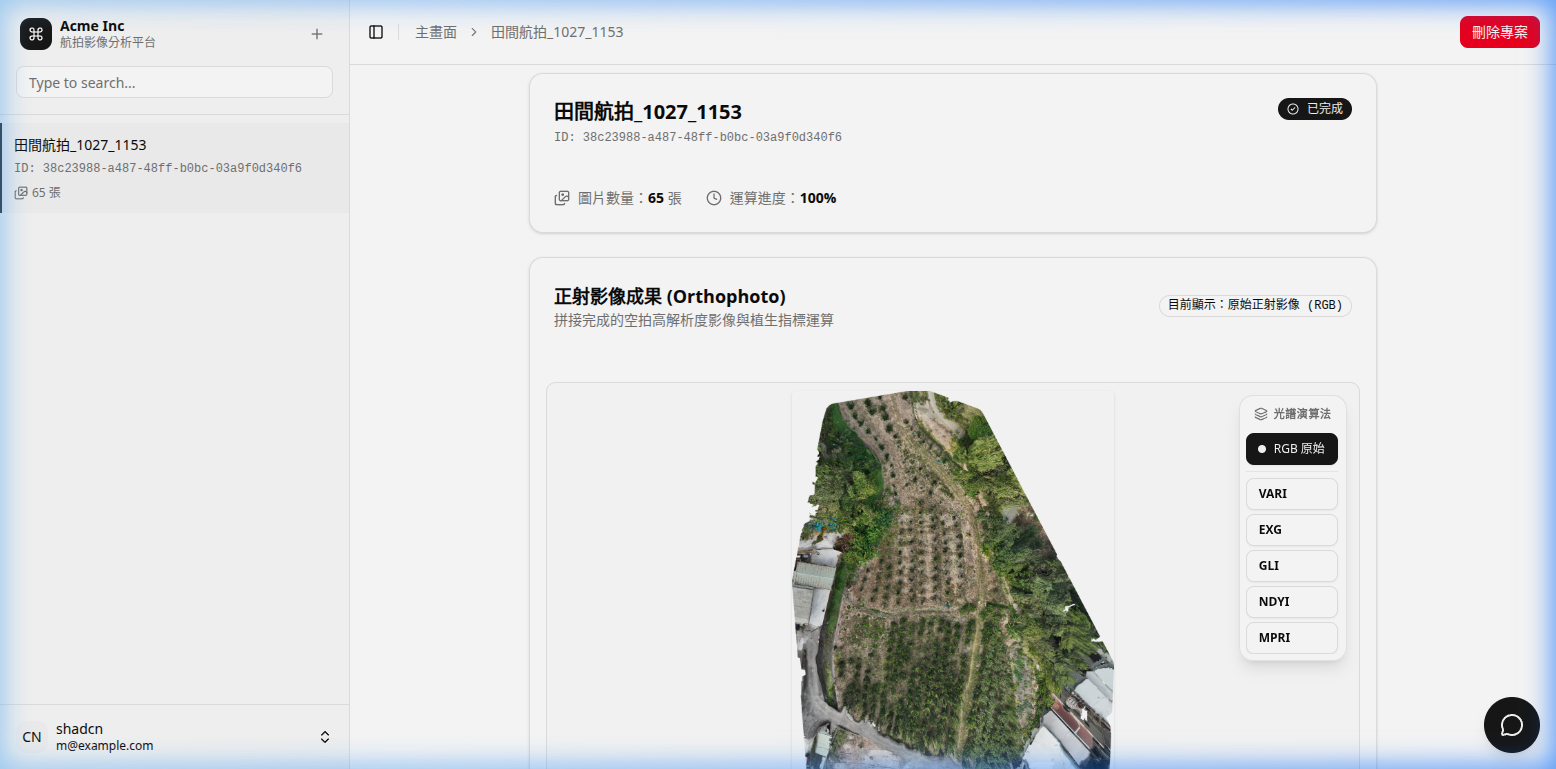
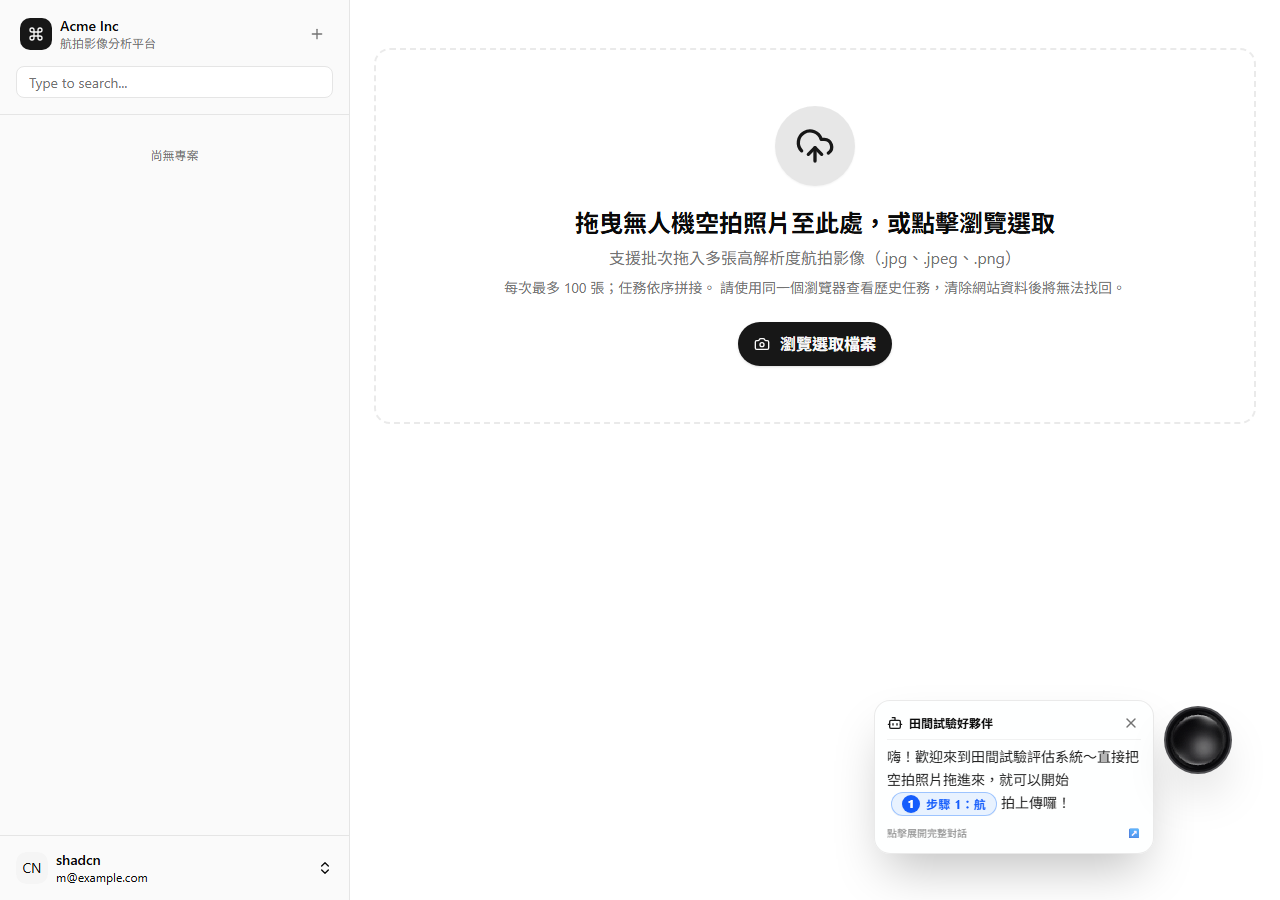
docs: redirect startup instructions to cloud deployment and update demo preview
Transition project documentation from local development setup to the live
Google Cloud production environment. With automated Caddy HTTPS and DuckDNS
deployment in place, reviewers and visitors can interact with the system
directly in their browsers without configuring local Docker stacks or
dependency toolchains.

- Update docs/assets/demo.png with the latest UI and plot annotation preview
- Add live cloud access URL (https://5114050012.duckdns.org) to README header and guide
- Replace local startup and development commands with cloud endpoint routing guide

diff --git a/README.md b/README.md
@@ -1,5 +1,7 @@
 # 田間無人機影像智慧決策
 
+> 🌐 **線上系統體驗入口**：[https://5114050012.duckdns.org](https://5114050012.duckdns.org)
+
 ![DEMO 主畫面](docs/assets/demo.png)
 
 ## 人工智慧與資訊安全期末專題提案
@@ -29,25 +31,23 @@
 
 ---
 
-## 本機整合啟動
+## 線上系統體驗
 
-需要 [Docker Engine 與 Compose](https://docs.docker.com/compose/install/)。首次設定時複製 `.env.example` 為 `.env`，填入自己的 `GEMINI_API_KEY` 與可用模型；既有 `.env` 請保留並補齊設定。
+本專案已完成自動化雲端部署並公開上線，使用者無需在本地端配置 Docker 或安裝任何環境，可直接透過瀏覽器造訪線上系統體驗完整功能：
 
-```bash
-docker compose up -d --build --wait
-```
+👉 **線上展示入口**：[https://5114050012.duckdns.org](https://5114050012.duckdns.org)
 
-開啟 <http://localhost:8000>。映像檔會使用 Node 24 建置 Vue，再將 `frontend/dist` 放入 Python 3.13／FastAPI 容器；NodeODM 只供內部連線。資料放在具名 Volume，正式程序採單一 worker，確保任務派送鎖有效。[多階段建置](https://docs.docker.com/build/building/multi-stage/)、[Compose 網路](https://docs.docker.com/compose/how-tos/networking/)
+### 線上服務端點與架構
 
 | 路徑 | 用途 |
 |---|---|
-| `/`、`/assets/...` | Vue 網頁及靜態檔案 |
-| `/api/session` | 建立／延長匿名訪客身分，回傳上傳限制 |
-| `/api/task/...` | 任務、影像、小區與對話 API |
-| `/healthz` | 應用存活狀態，不代表 NodeODM 或 AI 可用 |
-| `/docs`、`/openapi.json` | 最新 API 契約 |
+| `/`、`/assets/...` | Vue 3 互動前端介面（空拍圖上傳、小區標註、光譜指標熱圖與 AskAgent） |
+| `/api/session` | 建立／延長匿名訪客身分（基於安全 Cookie 隔離），回傳上傳限制與配額 |
+| `/api/task/...` | 任務、影像、小區標註與 AI 互動 API |
+| `/healthz` | 系統存活狀態檢查探針 |
+| `/docs`、`/openapi.json` | [最新 OpenAPI / Swagger API 契約](https://5114050012.duckdns.org/docs) |
 
-後端路由已由 `/task/...` 統一為 `/api/task/...`；直接呼叫舊路徑的用戶端需要更新。Vite 開發代理也保留 `/api`。靜態檔案掛載在 API 之後，不將不存在的 API 回傳成首頁。[FastAPI 靜態檔案](https://fastapi.tiangolo.com/tutorial/static-files/)
+公開入口全面由 [Caddy 反向代理](https://caddyserver.com/docs/automatic-https) 提供全自動 HTTPS 憑證加密與安全防護，靜態檔案與前端 SPA 由 [FastAPI](https://fastapi.tiangolo.com/tutorial/static-files/) 託管，後端 API 統一採用 `/api/task/...` 路由規範。
 
 ## 個別資料與容量
 
@@ -106,24 +106,3 @@ docker compose exec app python -m src.manage assign-owner --task-id 任務UUID -
 ```
 
 此管理命令只接受尚未指派的舊任務，不提供公開認領 API。
-
-## 分開開發
-
-本機使用 Python 3.13、[uv](https://docs.astral.sh/uv/) 與 Node 24；以下命令分別在不同終端機執行。
-
-```bash
-uv sync
-uv run fastapi dev src/main.py
-```
-
-```bash
-cd frontend
-npm ci
-npm run dev
-```
-
-```bash
-docker run --rm -p 127.0.0.1:3002:3000 opendronemap/nodeodm:3.6.2 --parallel_queue_processing 1
-```
-
-本機開發 `.env` 保持 `COOKIE_SECURE=false`、`PUBLIC_ORIGIN` 留空；雲端部署腳本會設定 HTTPS 網域及安全 Cookie。本機預設資料路徑仍為根目錄 `database.sqlite` 與 `src/odm`，可用 `DATABASE_PATH`、`ODM_DIR` 覆寫。
